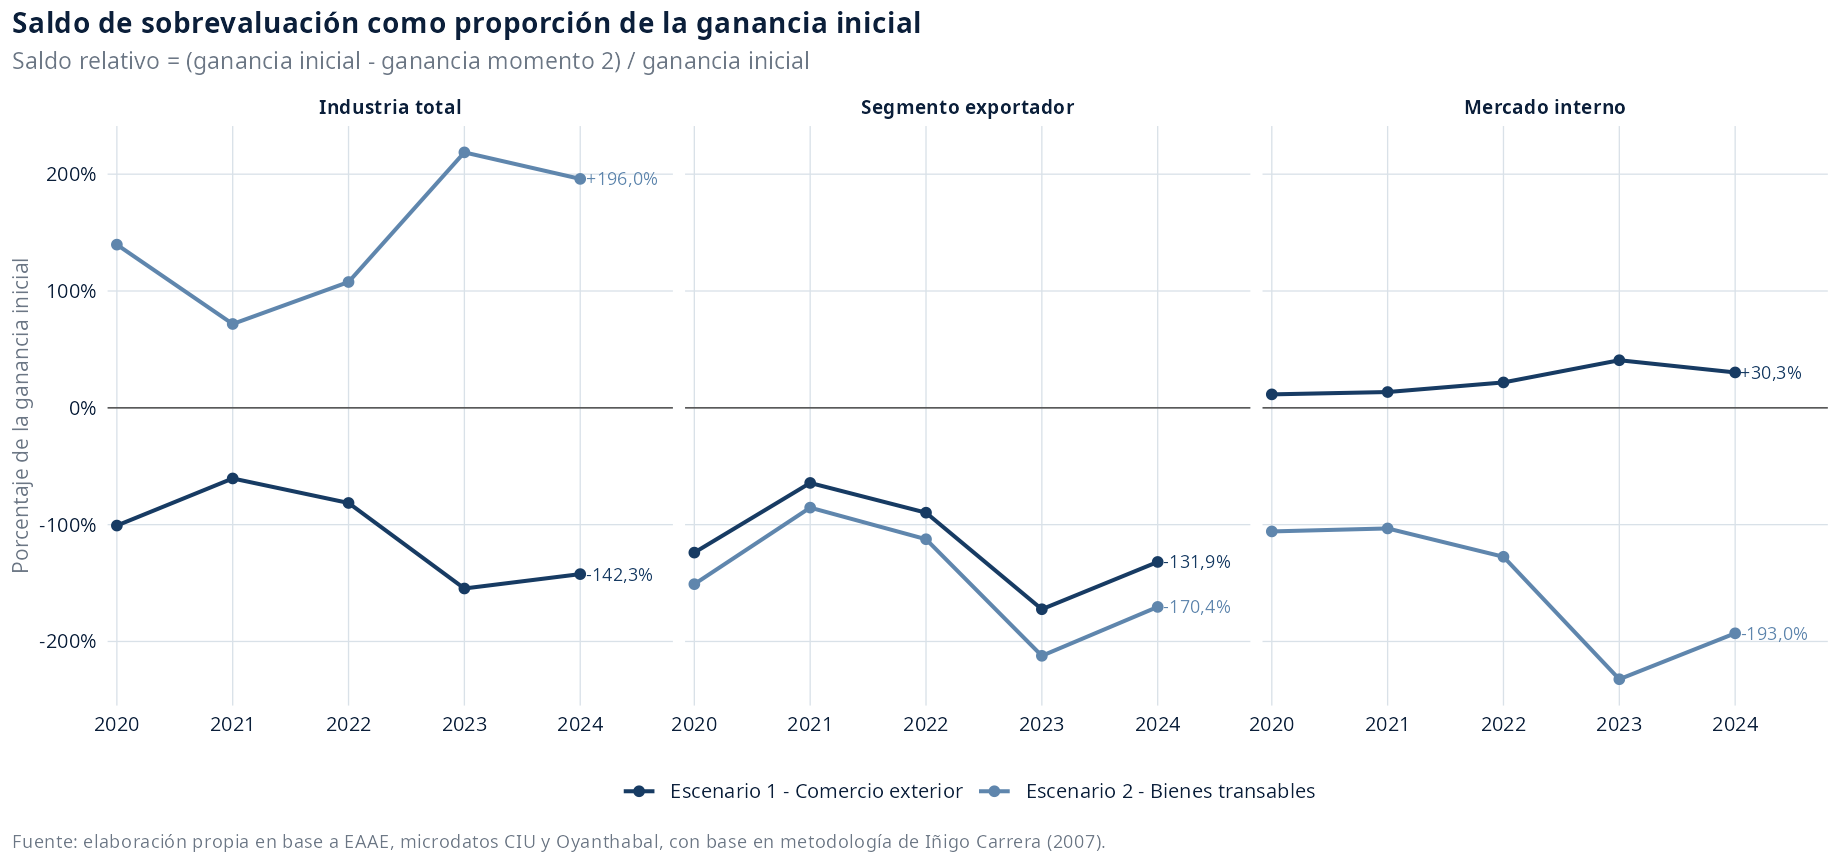
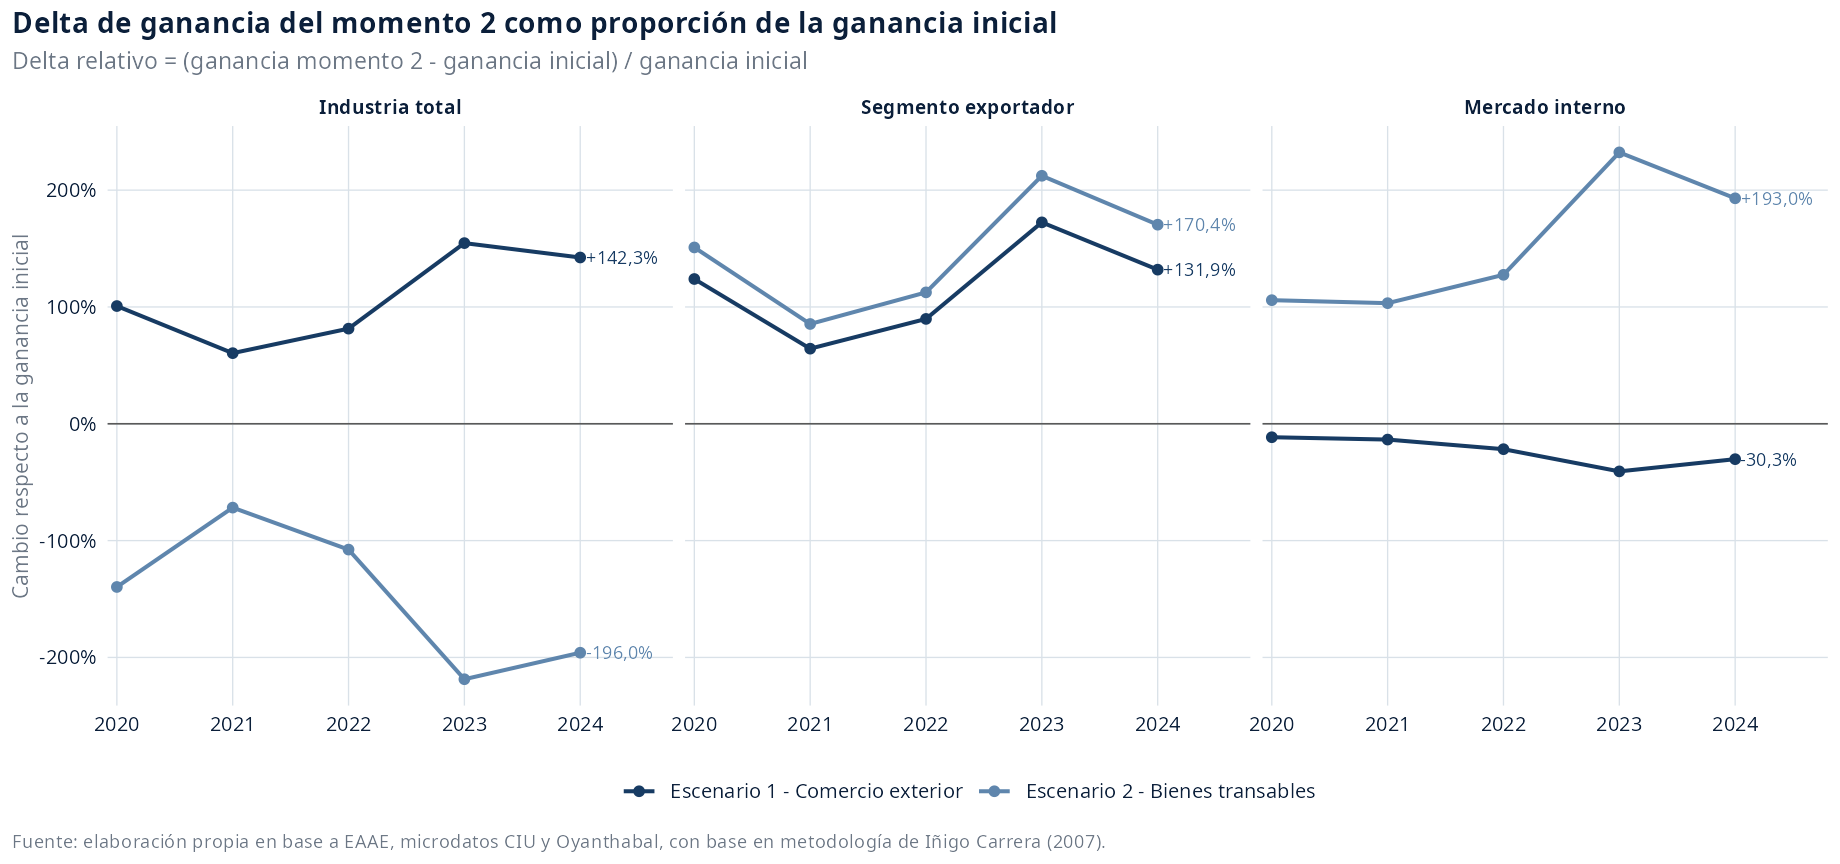
gráficos saldo ganancia

diff --git a/docs/20260828_resultados_devaluacion_escenarios_integrados.md b/docs/20260828_resultados_devaluacion_escenarios_integrados.md
@@ -24,7 +24,7 @@ En 2024, el escenario de comercio exterior registra para la industria total un s
 - El cálculo se realiza año a año mediante `factor_devaluacion = tipo_cambio_paridad_pesos_usd / tipo_cambio_comercial_pesos_usd - 1`; no contempla efectos acumulados ni respuestas dinámicas de cantidades, precios relativos o productividad.
 - El canal positivo se modela sobre `vbp_pp`; los canales negativos se modelan sobre consumo intermedio, remuneraciones, consumo de capital fijo, stock imputado e intereses pagados.
 - La medida principal de esta minuta es `ganancia_pb`; como complemento se reporta `ganancia_pb_desp_intereses`.
-- La medida relativa complementaria normaliza el saldo de sobrevaluación como `saldo_sobrevaluacion_ganancia_pb / ganancia_pb_inicial * 100`; debe leerse como saldo neto sobre la masa de ganancia inicial, no como tasa de ganancia.
+- La medida relativa complementaria normaliza el cambio de la ganancia del momento 2 como `(ganancia_pb_momento_2 - ganancia_pb_inicial) / ganancia_pb_inicial * 100`; debe leerse como variación relativa de la masa de ganancia contrafactual, no como tasa de ganancia.
 - Los intereses industriales son una serie agregada de manufactura y se distribuyen por segmento según microdatos del CIU: 65,6% para ramas exportadoras y 34,4% para ramas orientadas al mercado interno.
 - El grupo `combustible` no se presenta como segmento autónomo en el libro de resultados ni en esta minuta; queda incorporado en la industria total y se conserva en el panel CSV para trazabilidad contable.
 
@@ -97,9 +97,9 @@ A nivel de industria total, los dos escenarios producen saldos opuestos. En el e
 
 ![Industria total: saldo de ganancia asociado a la sobrevaluación](../output/figures/devaluacion_escenarios_integrados_20260828/01_industria_total_saldo_sobrevaluacion_ganancia.png)
 
-La figura siguiente expresa el saldo de sobrevaluación como proporción de la ganancia inicial. Esta medida no reemplaza el saldo monetario: permite leer cuánto pesa la apropiación o cesión neta sobre la masa de ganancia observada en cada sección.
+La figura siguiente expresa el cambio de la ganancia del momento 2 como proporción de la ganancia inicial. Esta medida no reemplaza el saldo monetario: permite leer cuánto cambia la masa de ganancia contrafactual respecto de la ganancia observada en cada sección.
 
-![Saldo de sobrevaluación como proporción de la ganancia inicial por sección](../output/figures/devaluacion_escenarios_integrados_20260828/01b_saldo_pct_ganancia_inicial_por_seccion.png)
+![Delta de ganancia del momento 2 como proporción de la ganancia inicial por sección](../output/figures/devaluacion_escenarios_integrados_20260828/01b_saldo_pct_ganancia_inicial_por_seccion.png)
 
 | Escenario | Ganancia base prom. | Ganancia escenario prom. | Saldo sobrevaluación prom. | Saldo post intereses prom. | Ganancia base 2024 | Ganancia escenario 2024 | Saldo 2024 | Saldo post intereses 2024 |
 | --- | --- | --- | --- | --- | --- | --- | --- | --- |
@@ -117,9 +117,9 @@ En el mismo año, el segmento exportador registra -87,4 y el segmento mercado in
 
 ![Escenario 1: saldo de ganancia por segmento](../output/figures/devaluacion_escenarios_integrados_20260828/03_comercio_exterior_saldo_ganancia_segmentos.png)
 
-Para dimensionar el peso relativo del saldo, la figura siguiente divide la diferencia entre la ganancia inicial y la ganancia del momento 2 por la masa de ganancia inicial de cada sección. Esto muestra qué proporción de la ganancia observada representa la apropiación o cesión asociada a la sobrevaluación.
+Para dimensionar el peso relativo del cambio, la figura siguiente divide la diferencia entre la ganancia del momento 2 y la ganancia inicial por la masa de ganancia inicial de cada sección. Esto muestra en qué proporción aumenta o disminuye la ganancia contrafactual frente a la ganancia observada.
 
-![Escenario 1: saldo relativo sobre la ganancia inicial](../output/figures/devaluacion_escenarios_integrados_20260828/03b_comercio_exterior_saldo_pct_ganancia_inicial_segmentos.png)
+![Escenario 1: delta relativo de ganancia del momento 2](../output/figures/devaluacion_escenarios_integrados_20260828/03b_comercio_exterior_saldo_pct_ganancia_inicial_segmentos.png)
 
 | Sección | Ganancia base prom. | Ganancia escenario prom. | Saldo sobrevaluación prom. | Saldo post intereses prom. | Ganancia base 2024 | Ganancia escenario 2024 | Saldo 2024 | Saldo post intereses 2024 |
 | --- | --- | --- | --- | --- | --- | --- | --- | --- |
@@ -163,9 +163,9 @@ En el mismo año, el segmento exportador registra -112,8 y el segmento mercado i
 
 ![Escenario 2: saldo de ganancia por segmento](../output/figures/devaluacion_escenarios_integrados_20260828/03_bienes_transables_saldo_ganancia_segmentos.png)
 
-La lectura relativa permite comparar secciones de tamaño distinto sin perder el signo económico del ejercicio: valores positivos indican una sobrepercepción de ganancia bajo sobrevaluación y valores negativos indican ganancia dejada de percibir.
+La lectura relativa permite comparar secciones de tamaño distinto: valores positivos indican que la ganancia del momento 2 supera a la ganancia inicial, mientras que valores negativos indican una ganancia contrafactual menor a la observada.
 
-![Escenario 2: saldo relativo sobre la ganancia inicial](../output/figures/devaluacion_escenarios_integrados_20260828/03b_bienes_transables_saldo_pct_ganancia_inicial_segmentos.png)
+![Escenario 2: delta relativo de ganancia del momento 2](../output/figures/devaluacion_escenarios_integrados_20260828/03b_bienes_transables_saldo_pct_ganancia_inicial_segmentos.png)
 
 | Sección | Ganancia base prom. | Ganancia escenario prom. | Saldo sobrevaluación prom. | Saldo post intereses prom. | Ganancia base 2024 | Ganancia escenario 2024 | Saldo 2024 | Saldo post intereses 2024 |
 | --- | --- | --- | --- | --- | --- | --- | --- | --- |
@@ -214,7 +214,7 @@ delta_variable = variable_base * incidencia_seccion_variable * factor_devaluacio
 variable_devaluacion = variable_base + delta_variable
 ganancia_pb_escenario = ganancia_pb + delta_vbp_pp - delta_consumo_intermedio_estimado - delta_remuneraciones - delta_consumo_capital_fijo
 saldo_sobrevaluacion_ganancia_pb = ganancia_pb - ganancia_pb_escenario
-saldo_sobrevaluacion_ganancia_pb_pct = saldo_sobrevaluacion_ganancia_pb / ganancia_pb * 100
+delta_ganancia_momento2_pct = (ganancia_pb_escenario - ganancia_pb) / ganancia_pb * 100
 ganancia_pb_desp_intereses_escenario = ganancia_pb_escenario - intereses_industria_pesos_escenario
 saldo_sobrevaluacion_ganancia_pb_desp_intereses = ganancia_pb_desp_intereses - ganancia_pb_desp_intereses_escenario
 ```

diff --git a/CONTEXT.md b/CONTEXT.md
@@ -345,9 +345,9 @@ Artefactos:
 | `docs/methodology/20260706_minuta_panel_eeae_bcu_total_industria_subrama.md` | Minuta metodológica sobre homologación CIIU, deflactores, empalmes, rotaciones e imputaciones. |
 | `docs/methodology/20260817_minuta_efecto_devaluacion_industria.md` | Minuta metodológica sobre la hoja `efecto-devaluacion-corrientes`, con fórmulas, supuestos y calidad de resultados. |
 | `docs/methodology/20260820_minuta_modelamiento_devaluacion_1.md` | Minuta metodológica sobre la hoja `devaluación-1` del libro de modelamiento de devaluación. |
-| `docs/20260828_resultados_devaluacion_escenarios_integrados.md` | Minuta integrada de dos escenarios de devaluación; presenta saldos absolutos de ganancia asociados a sobrevaluación y la medida relativa `saldo_sobrevaluacion_ganancia_pb_pct`. |
+| `docs/20260828_resultados_devaluacion_escenarios_integrados.md` | Minuta integrada de dos escenarios de devaluación; presenta saldos absolutos de ganancia asociados a sobrevaluación y la medida relativa `delta_ganancia_momento2_pct`. |
 | `docs/minutes/20260817_resultados_devaluación_sector_industrial.md` | Minuta de lectura para audiencia amplia sobre consecuencias distributivas de una devaluación industrial bajo escenarios de salario fijo y salario compensado. |
-| `output/figures/devaluacion_escenarios_integrados_20260828/` | Carpeta de figuras PNG respaldadas para la minuta integrada 20260828; incluye saldos absolutos, coeficientes, factor de devaluación y saldos relativos sobre ganancia inicial. |
+| `output/figures/devaluacion_escenarios_integrados_20260828/` | Carpeta de figuras PNG respaldadas para la minuta integrada 20260828; incluye saldos absolutos, coeficientes, factor de devaluación y deltas relativos de ganancia del momento 2 sobre ganancia inicial. |
 | `output/figures/devaluacion_sector_industrial_20260817/` | Carpeta de figuras PNG respaldadas para la minuta de resultados de devaluación sector industrial. |
 
 Decisiones del panel integrado:
@@ -546,12 +546,12 @@ Decisiones del panel integrado:
   ganancia asociado a la sobrevaluación:
   `saldo_sobrevaluacion_ganancia_pb = ganancia_pb -
   ganancia_pb_devaluacion`. Como complemento visual, se agrega
-  `saldo_sobrevaluacion_ganancia_pb_pct =
-  saldo_sobrevaluacion_ganancia_pb / ganancia_pb * 100`. El denominador es la
-  ganancia inicial observada, no la ganancia contrafactual del momento 2, para
-  leer el saldo neto como proporción de la masa de ganancia inicial y evitar
-  cocientes inestables si la ganancia contrafactual se aproxima a cero o cambia
-  de signo. Esta medida no debe interpretarse como tasa de ganancia.
+  `delta_ganancia_momento2_pct = (ganancia_pb_devaluacion - ganancia_pb) /
+  ganancia_pb * 100`. El denominador es la ganancia inicial observada, no la
+  ganancia contrafactual del momento 2, para leer el cambio contrafactual como
+  proporción de la masa de ganancia inicial y evitar cocientes inestables si la
+  ganancia contrafactual se aproxima a cero o cambia de signo. Esta medida no
+  debe interpretarse como tasa de ganancia.
   Las figuras específicas son
   `01b_saldo_pct_ganancia_inicial_por_seccion.png`,
   `03b_comercio_exterior_saldo_pct_ganancia_inicial_segmentos.png` y
@@ -2102,7 +2102,7 @@ mkdir -p data/input-data/eaae \
 | Aug 2026 | Corrección del flujo integrado EAAE-BCU para extraer directamente por subrama `fbcf`, `fbkf_maq_eq`, `adquisiciones_importadas`, `adquisiciones_origen_importado` e `importaciones_maquinaria` desde los cuadros fuente de FBKF/componentes; creación de `eaae_subrama_fbkf_direct.py`, auditoría `20260819_auditoria_fbkf_directa_subrama_eaae.csv`, panel `20260819_panel_eeae_bcu_total_industria_subrama.csv` y libro `20260819_resultados_eaae_bcu_total_industria_subrama.xlsx` | ✓ |
 | Aug 2026 | Creación del procesamiento específico `20260824_panel_eaae_2020_2024_industria.csv` y `20260824_panel_eaae_2020_2024_industria_escenario_devaluacion.xlsx` para modelar devaluación en industria total, ramas exportadoras y ramas de mercado interno según clasificación Mussi | ✓ |
 | Aug 2026 | Actualización del modelamiento de devaluación industrial a dos escenarios desde `20260827-Uruguay. Modelo de impacto de devaluación-segmentos-dos-escenarios.xlsx`: `Modelo` aporta coeficientes para industria total; `Impo_Expo - Mercado Interno` aporta coeficientes segmentados del escenario comercio exterior; `Transable_Expo - MI` aporta coeficientes segmentados del escenario bienes transables. Se crea `20260827-coeficientes-efecto-devaluacion.csv`, el libro `20260827_panel_eaae_2020_2024_industria_escenario_devaluacion.xlsx` con hojas `Escenario 1 - Comercio Exterior` y `Escenario 2 - Bienes Transables`, y dos minutas específicas en `docs/` con figuras respaldadas en `output/figures/` | ✓ |
-| Aug 2026 | Regeneración del flujo de modelamiento de devaluación desde la fuente actualizada `20260828-Uruguay. Modelo de impacto de devaluación-segmentos-dos-escenarios.xlsx`. El script de coeficientes queda parametrizado para usar el último XLSX fuente de dos escenarios; se crean `20260828-coeficientes-efecto-devaluacion.csv`, `20260828_panel_eaae_2020_2024_industria_escenario_devaluacion.xlsx`, minutas por escenario 20260828 y la minuta integrada `20260828_resultados_devaluacion_escenarios_integrados.md`, incluyendo figuras de saldo absoluto y saldo relativo sobre ganancia inicial | ✓ |
+| Aug 2026 | Regeneración del flujo de modelamiento de devaluación desde la fuente actualizada `20260828-Uruguay. Modelo de impacto de devaluación-segmentos-dos-escenarios.xlsx`. El script de coeficientes queda parametrizado para usar el último XLSX fuente de dos escenarios; se crean `20260828-coeficientes-efecto-devaluacion.csv`, `20260828_panel_eaae_2020_2024_industria_escenario_devaluacion.xlsx`, minutas por escenario 20260828 y la minuta integrada `20260828_resultados_devaluacion_escenarios_integrados.md`, incluyendo figuras de saldo absoluto y delta relativo de ganancia del momento 2 sobre ganancia inicial | ✓ |
 | Pendiente | Decisiones §8.1 (equipo de investigación) | ⏳ |
 | Pendiente | Decidir método para `amortizaciones` y tratamiento de faltantes FBCF/stock 2002/2011 | ⏳ |
 
